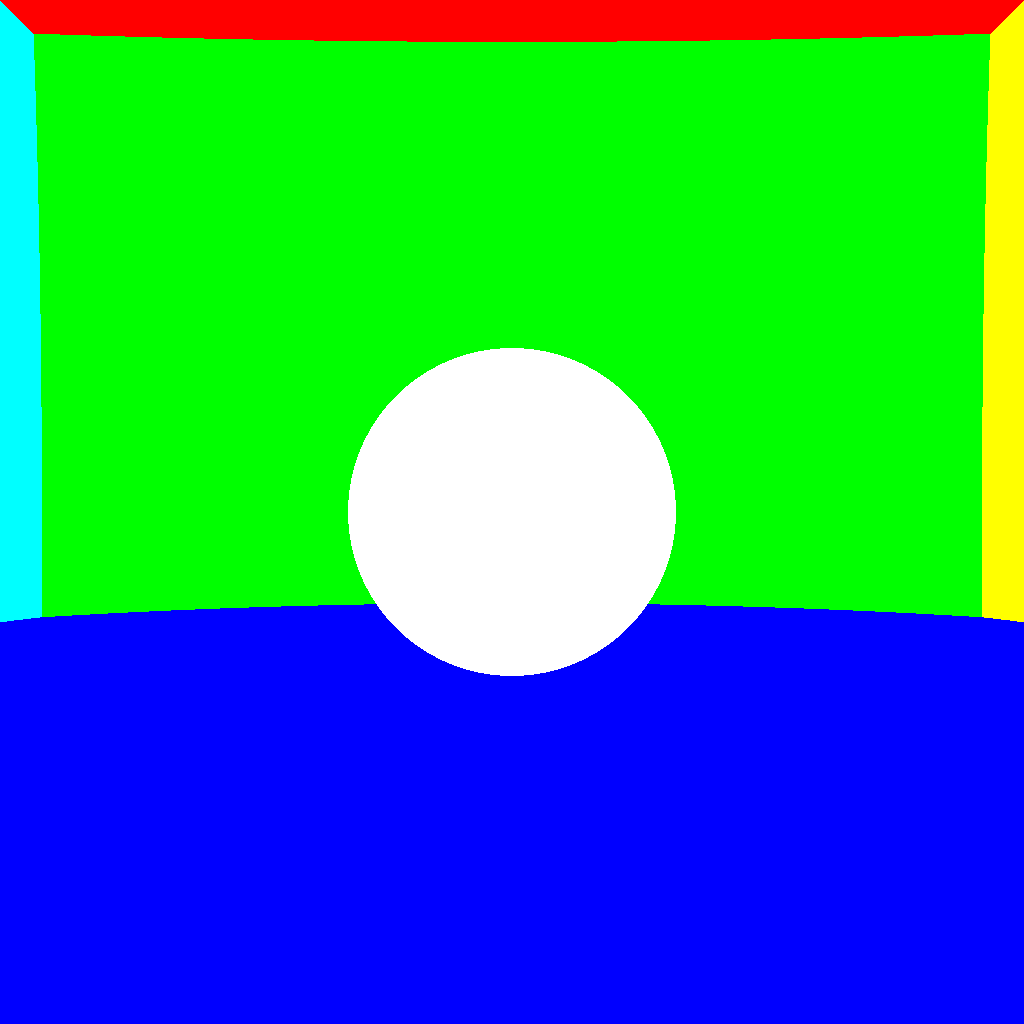
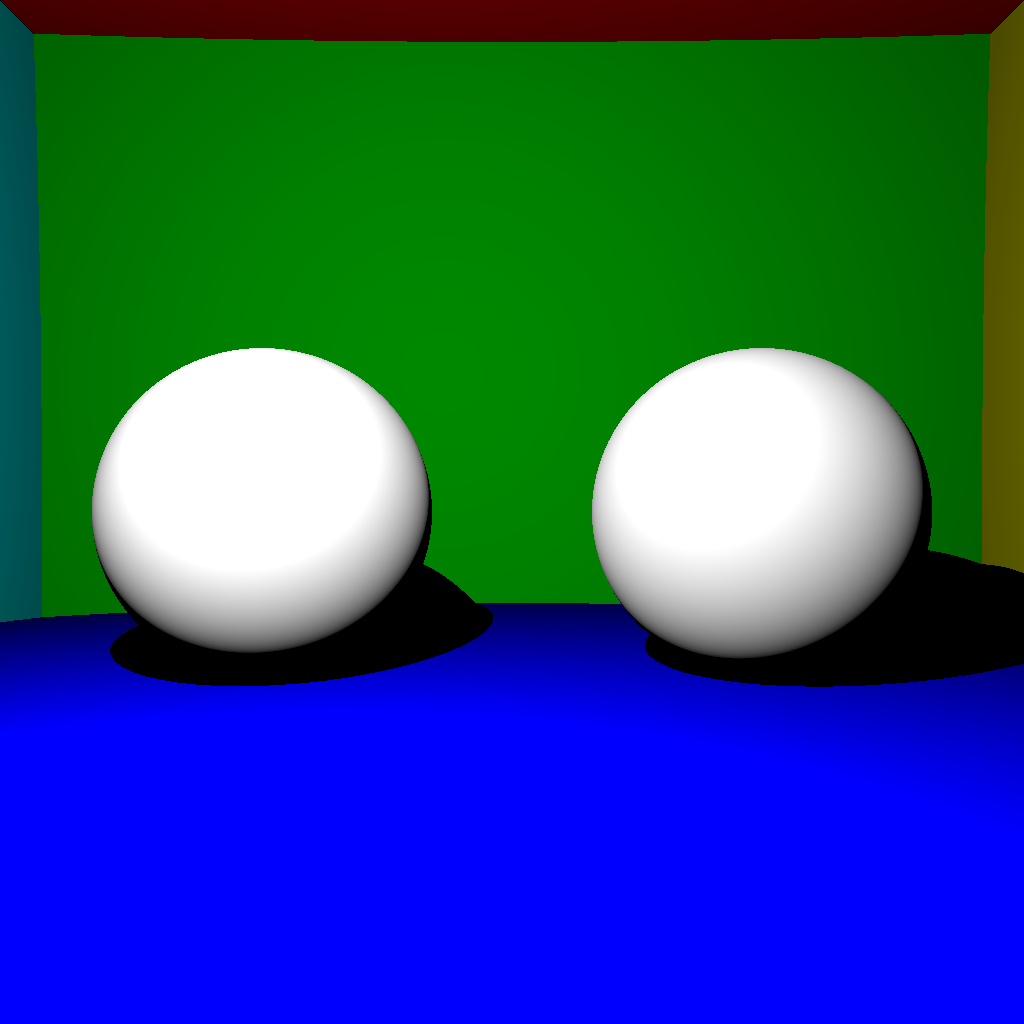
Direct lighting

diff --git a/main.cpp b/main.cpp
@@ -45,6 +45,7 @@ class Sphere {
       }
       intersection.P = ray.O + ray.u*intersection.t;
       intersection.N = normalize(intersection.P - C);
+      intersection.albedo = albedo;
       return intersection;
     }
     Vector albedo;
@@ -55,7 +56,7 @@ class Sphere {
 
 class BasicScene {
   public:
-    BasicScene(){
+    explicit BasicScene(const Vector& light_position){
       Sphere* left_wall = new Sphere(Vector(0, 1000, 0), 940, Vector(1, 0, 0));
       Sphere* front_wall = new Sphere(Vector(0, 0, -1000), 940, Vector(0, 1, 0));
       Sphere* right_wall = new Sphere(Vector(0, -1000, 0), 990, Vector(0, 0, 1));
@@ -68,41 +69,72 @@ class BasicScene {
       spheres.push_back(back_wall);
       spheres.push_back(ceiling);
       spheres.push_back(ground);
+      this->S = light_position;
     }
+
     void addSphere(Sphere* sphere) {
       spheres.push_back(sphere);
     }
 
-    Vector getColor(const Ray& ray, int ray_depth) {
-      if (ray_depth < 0) return Vector(0., 0., 0.);
+    Intersection intersect(const Ray& ray) {
+      Intersection best_intersection;
+      best_intersection.intersected = false;
       double min_t = 1e5;
-      Sphere* closest_sphere;
       for (auto &sphere : spheres) {
         Intersection intersection = sphere->intersect(ray);
         if (intersection.intersected && intersection.t < min_t) {
           min_t = intersection.t;
-          closest_sphere = sphere;
+          best_intersection = intersection;
         }
       }
-      return closest_sphere->albedo;
+      return best_intersection;
     }
+
+    Vector getColor(const Ray& ray, int ray_depth) {
+      if (ray_depth < 0) return Vector(0., 0., 0.);
+      Intersection intersection = intersect(ray);
+      Vector L;
+
+      if (intersection.intersected) {
+        double eps = 1e-10;
+        Vector N = intersection.N;
+        Vector P = intersection.P + N*eps;
+ 
+        double d = norm(S - P);
+        Vector omega = normalize(S - P);
+        Ray lightRay = Ray(S, omega*(-1.));
+
+        Intersection lightIntersection = intersect(lightRay);
+        bool V_p = !(lightIntersection.intersected && lightIntersection.t <= d);
+        Vector rho = lightIntersection.albedo;
+
+        L =  rho / M_PI * I / (4 * M_PI * pow(d, 2)) * V_p * std::max(dot(N, omega), 0.);
+      }
+
+      return L;
+    }
+
   private:
     std::vector<Sphere*> spheres;
+    Vector S;
+    double I = 1e5;
 };
 
 int main() {
   
-  BasicScene scene = BasicScene();
+  BasicScene scene = BasicScene(Vector(-10, 20, 40));
 
-  Sphere* sphere = new Sphere(Vector(0, 0, 0), 10, Vector(1., 1., 1.));
-  scene.addSphere(sphere);
+  Sphere* sphere1 = new Sphere(Vector(-15, 0, 0), 10, Vector(1., 1., 1.));
+  Sphere* sphere2 = new Sphere(Vector(15, 0, 0), 10, Vector(1., 1., 1.));
+  scene.addSphere(sphere1);
+  scene.addSphere(sphere2);
 
   int W = 1024;
   int H = 1024;
   std::vector<unsigned char> image(W*H * 3, 0);
   double fov = 1.0472; // 60 deg
   Vector Q = Vector(0, 0, 55);
-  double max_path_length = 1e5;
+  double max_ray_depth = 10;
   double gamma = 2.2;
 
   for (int i = 0; i < H; i++) {
@@ -114,7 +146,7 @@ int main() {
       V[2] = Q[2] - W / (2 * tan(fov / 2));
 
       Ray ray = Ray(Q, normalize(V - Q));
-      Vector color = scene.getColor(ray, max_path_length);
+      Vector color = scene.getColor(ray, max_ray_depth);
             
       image[(i*W + j) * 3 + 0] = std::min(255., pow(color[0], 1./gamma)*255);
       image[(i*W + j) * 3 + 1] = std::min(255., pow(color[1], 1./gamma)*255);

diff --git a/vector.cpp b/vector.cpp
@@ -52,6 +52,10 @@ Vector operator*(const Vector& a, double t) {
     return Vector(a[0]*t, a[1]*t, a[2]*t);
 }
 
+Vector operator*(double t, const Vector& a) {
+    return Vector(a[0]*t, a[1]*t, a[2]*t);
+}
+
 Vector operator/(const Vector& a, double t) {
     return Vector(a[0]/t, a[1]/t, a[2]/t);
 }
@@ -64,6 +68,10 @@ Vector cross(const Vector& a, const Vector& b) {
   return Vector(a[1] * b[2] - a[2] * b[1], 
                 a[2] * b[0] - a[0] * b[2],
                 a[0] * b[1] - a[1] * b[0]);
+}
+
+double norm(const Vector& a) {
+  return sqrt(dot(a, a));
 }
 
 Vector normalize(const Vector& a) {

diff --git a/vector.h b/vector.h
@@ -18,6 +18,8 @@ Vector operator+(const Vector& a, const Vector& b);
 Vector operator-(const Vector& a, const Vector& b);
 Vector operator/(const Vector& a, double t);
 Vector operator*(const Vector& a, double t);
+Vector operator*(double t, const Vector& a);
 double dot(const Vector& a, const Vector& b);
 Vector cross(const Vector &a, const Vector &b);
+double norm(const Vector& a);
 Vector normalize(const Vector& a);
